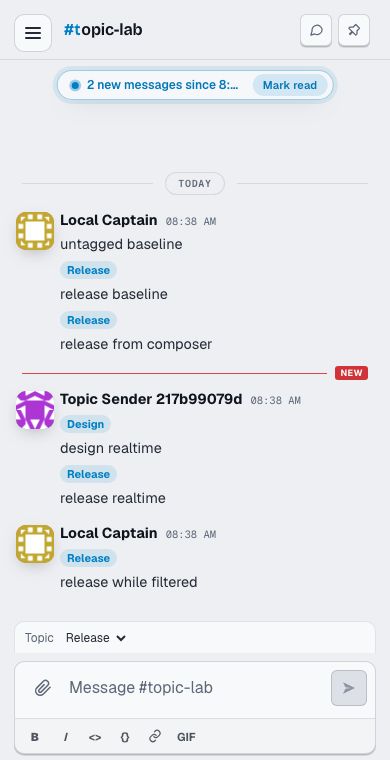
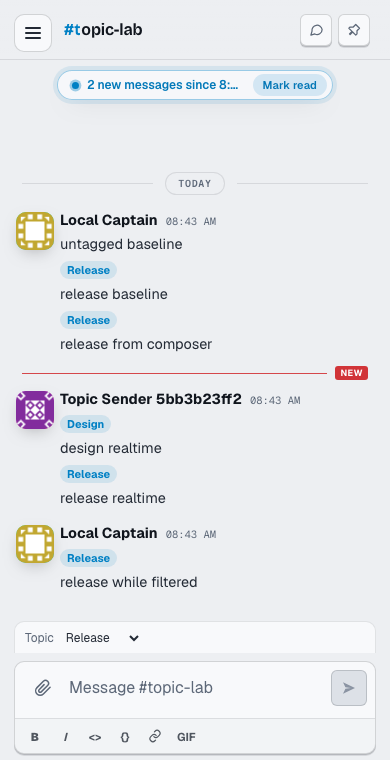
fix: refresh topic choices during active sessions

diff --git a/apps/web/src/ChatApp.svelte b/apps/web/src/ChatApp.svelte
@@ -933,6 +933,11 @@
     }
   }
 
+  function activateMessageComposer() {
+    activeComposerContext = "message";
+    if (selectedChannelID) void loadTopics();
+  }
+
   async function loadModerationMembers(workspaceID = selectedWorkspaceID) {
     const serial = ++moderationMembersLoadSerial;
     if (!workspaceID || workspaceID !== selectedWorkspaceID || (currentWorkspaceRole !== "owner" && currentWorkspaceRole !== "moderator")) {
@@ -2789,6 +2794,7 @@
       loadModerationMembers(workspaceID),
       loadSlashCommands(workspaceID),
       loadBotCommands(workspaceID, true),
+      loadTopics(workspaceID),
     ]);
     if (serial !== realtimeReconcileSerial || workspaceID !== selectedWorkspaceID || !isCurrent()) return;
     if (selectedChannelID && !channels.some((channel) => channel.id === selectedChannelID)) {
@@ -2883,6 +2889,13 @@
         await loadMessages();
       }
       return;
+    }
+    if (
+      event.workspace_id === selectedWorkspaceID &&
+      event.payload.topic_id &&
+      !topics.some((topic) => topic.id === event.payload.topic_id)
+    ) {
+      await loadTopics(event.workspace_id);
     }
     if (messageEventAlreadyAccounted(event)) return;
     const affectsConversation =
@@ -3661,7 +3674,7 @@
       canDeleteAnyMessage={canDeleteAnyMessage && !selectedDirectID}
       {deletingMessageIDs}
       onListRef={(handle) => (messageList = handle)}
-      onActivateMessageComposer={() => (activeComposerContext = "message")}
+      onActivateMessageComposer={activateMessageComposer}
       onInlineImagePointerUp={handleInlineImagePointerUp}
       onOpenProfile={openUserProfile}
       onReply={setReplyTarget}
@@ -3754,7 +3767,7 @@
       }}
       onSubmit={() => void sendMessage()}
       onKeydown={handleComposerKey}
-      onFocus={() => (activeComposerContext = "message")}
+      onFocus={activateMessageComposer}
       onInputRef={(node) => (messageInput = node)}
       onUploadFile={uploadFile}
       onRemoveUpload={() => (pendingUpload = null)}

diff --git a/tests/e2e/topic-web.spec.ts b/tests/e2e/topic-web.spec.ts
@@ -89,6 +89,12 @@ test("topic selector, labels, filter, clear, and realtime stay coherent", async 
 
   const topicSelect = page.getByLabel("Message topic");
   await expect(topicSelect).toBeVisible();
+  const refreshedTopicResponse = await page.request.post(`/api/workspaces/${workspace.id}/topics`, {
+    data: { name: "Operations" },
+  });
+  expect(refreshedTopicResponse.ok()).toBe(true);
+  await page.getByLabel("Message body").focus();
+  await expect(topicSelect.locator("option", { hasText: "Operations" })).toHaveCount(1);
   await topicSelect.selectOption({ label: "Release" });
   await page.getByLabel("Message body").fill("release from composer");
   await page.getByRole("button", { name: "Send", exact: true }).click();
